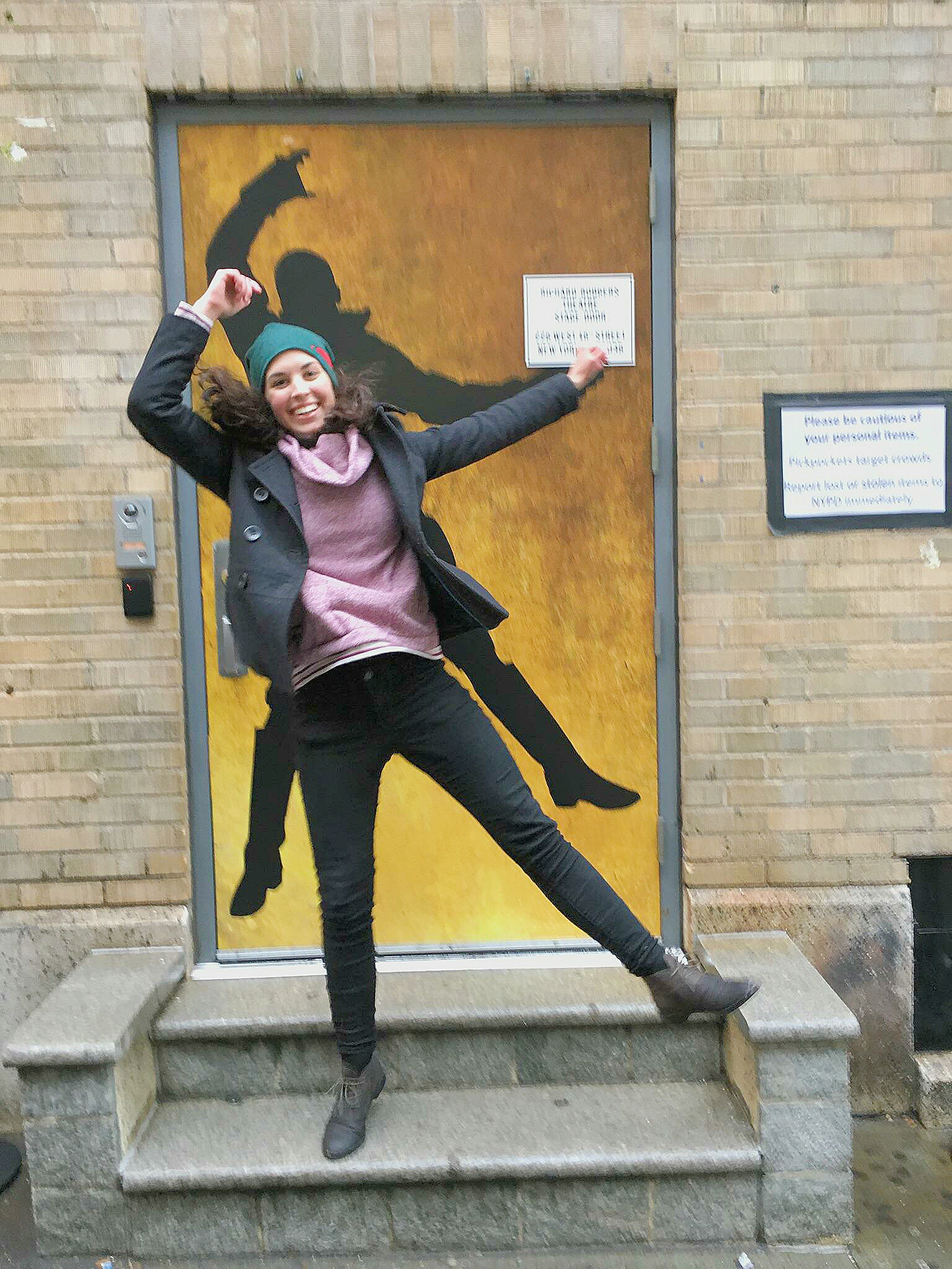
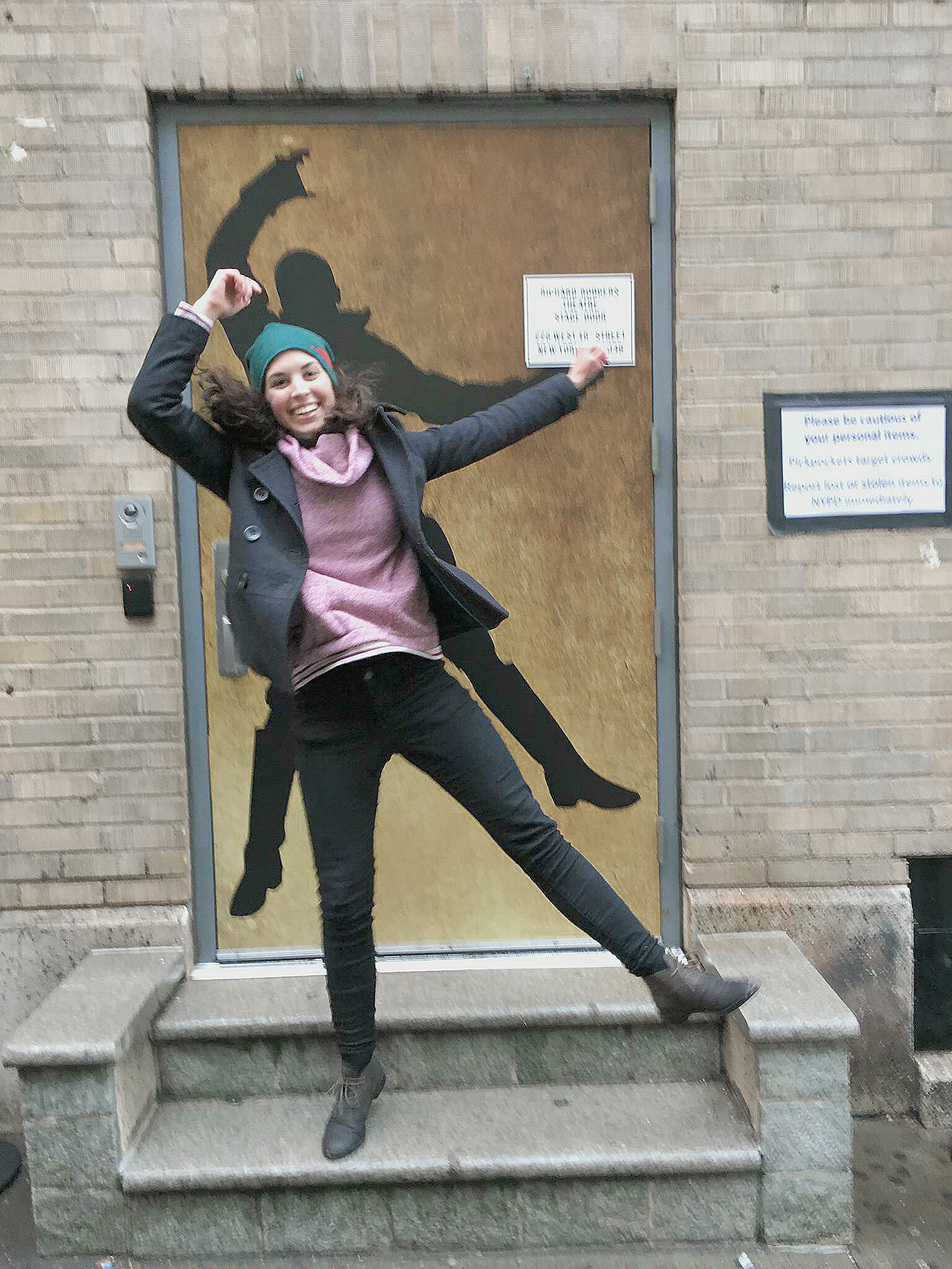
about page

diff --git a/style.css b/style.css
@@ -62,7 +62,7 @@ p{
     background-image: url('img/home.jpg');
 }
 #about .jumbotron {
-    background-image: url('img/about_overlay.png');
+    background-image: url('img/about_overlay.jpg');
 }
 #twoDee .jumbotron{
     background-image: url('img/twoDee_overlay.png');
@@ -86,11 +86,10 @@ p{
     position: absolute;
     letter-spacing: 8px;
     padding: 5px 5px;
-   background: -moz-linear-gradient(left, rgba(125,185,232,0) 0%, rgba(204,204,204,0.7) 100%); /* FF3.6-15 */
-background: -webkit-linear-gradient(left, rgba(125,185,232,0) 0%,rgba(204,204,204,0.7) 100%); /* Chrome10-25,Safari5.1-6 */
-background: linear-gradient(to right, rgba(125,185,232,0) 0%,rgba(204,204,204,0.7) 100%); /* W3C, IE10+, FF16+, Chrome26+, Opera12+, Safari7+ */
-filter: progid:DXImageTransform.Microsoft.gradient( startColorstr='#007db9e8', endColorstr='#b3cccccc',GradientType=1 ); /* IE6-9 */
-copy
+    background: -moz-linear-gradient(left, rgba(125,185,232,0) 0%, rgba(204,204,204,0.7) 100%); /* FF3.6-15 */
+    background: -webkit-linear-gradient(left, rgba(125,185,232,0) 0%,rgba(204,204,204,0.7) 100%); /* Chrome10-25,Safari5.1-6 */
+    background: linear-gradient(to right, rgba(125,185,232,0) 0%,rgba(204,204,204,0.7) 100%); /* W3C, IE10+, FF16+, Chrome26+, Opera12+, Safari7+ */
+    filter: progid:DXImageTransform.Microsoft.gradient( startColorstr='#007db9e8', endColorstr='#b3cccccc',GradientType=1 ); /* IE6-9 */
 }
 #landing h2{
     color: #1C3146;
@@ -128,6 +127,10 @@ copy
     height:100vh;
     float: left;
     padding-right: 0.5rem;
+}
+#about_text{
+    padding-left:5%;
+    padding-right:5%;
 }
 #intro{
     margin-top: 3.3rem;

diff --git a/about.html b/about.html
@@ -24,7 +24,7 @@
       <div class="jumbotron">
         <img src="img/profile.jpg">
         <h2 class="title">a bit about me...</h2>
-        <p>I'm Madi. Madison is a bit too formal for me.<br><br>
+        <p id="about_text">I'm Madi. Madison is a bit too formal for me.<br><br>
         I'm native to perfectly ordinary Lakeland, FL, USA and I think I found what I want to do with my life...maybe.<br><br>
         I am currently a 5th-year student in the University of Florida's Digital Arts and Sciences program - College of Engineering. I am also a musician. I played the French horn with my high school symphony and was in the Fightin' Gator Marching Band for two years.<br><br>
         At UF, I began as a Computer Engineering major, but after taking a 3D Modeling class, found that I was more passionate about combining programming and the visual aesthetic.<br><br>
